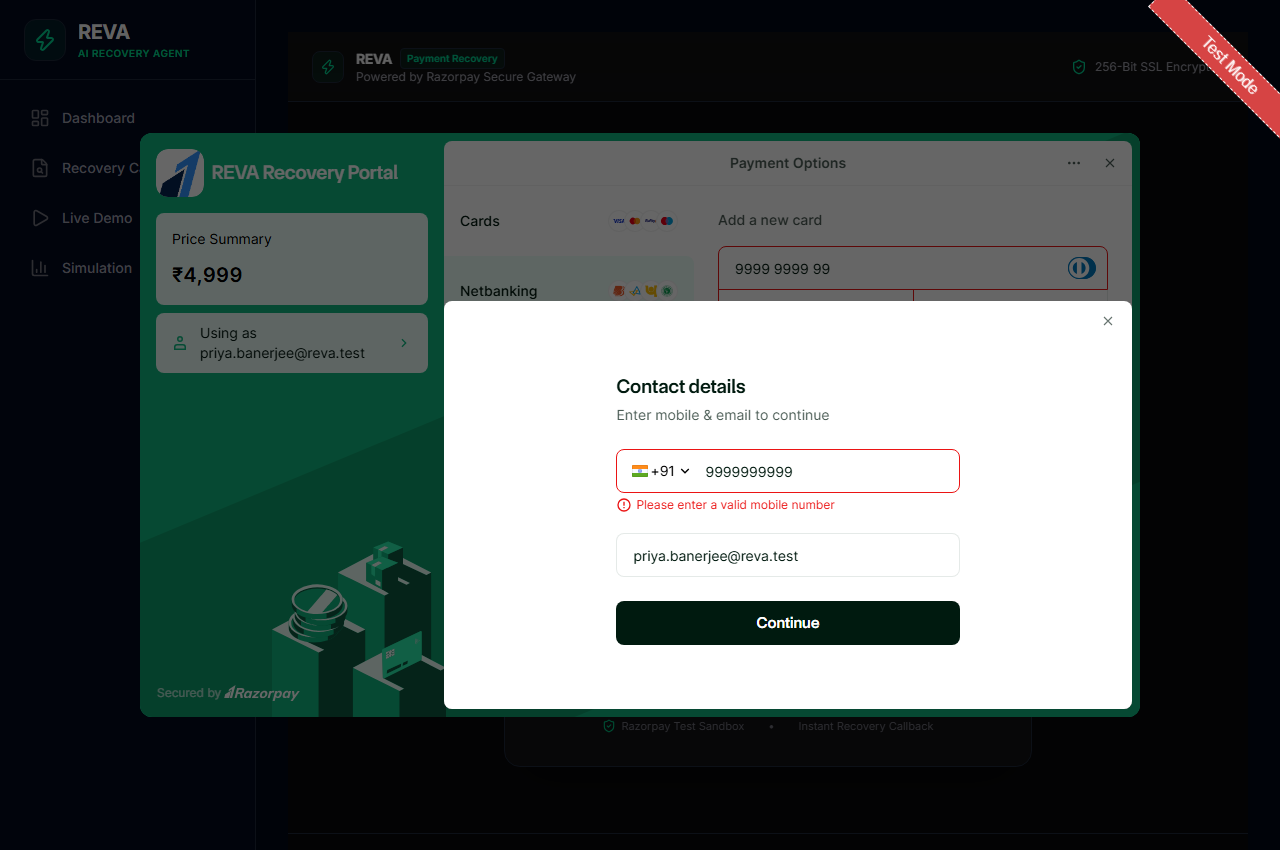
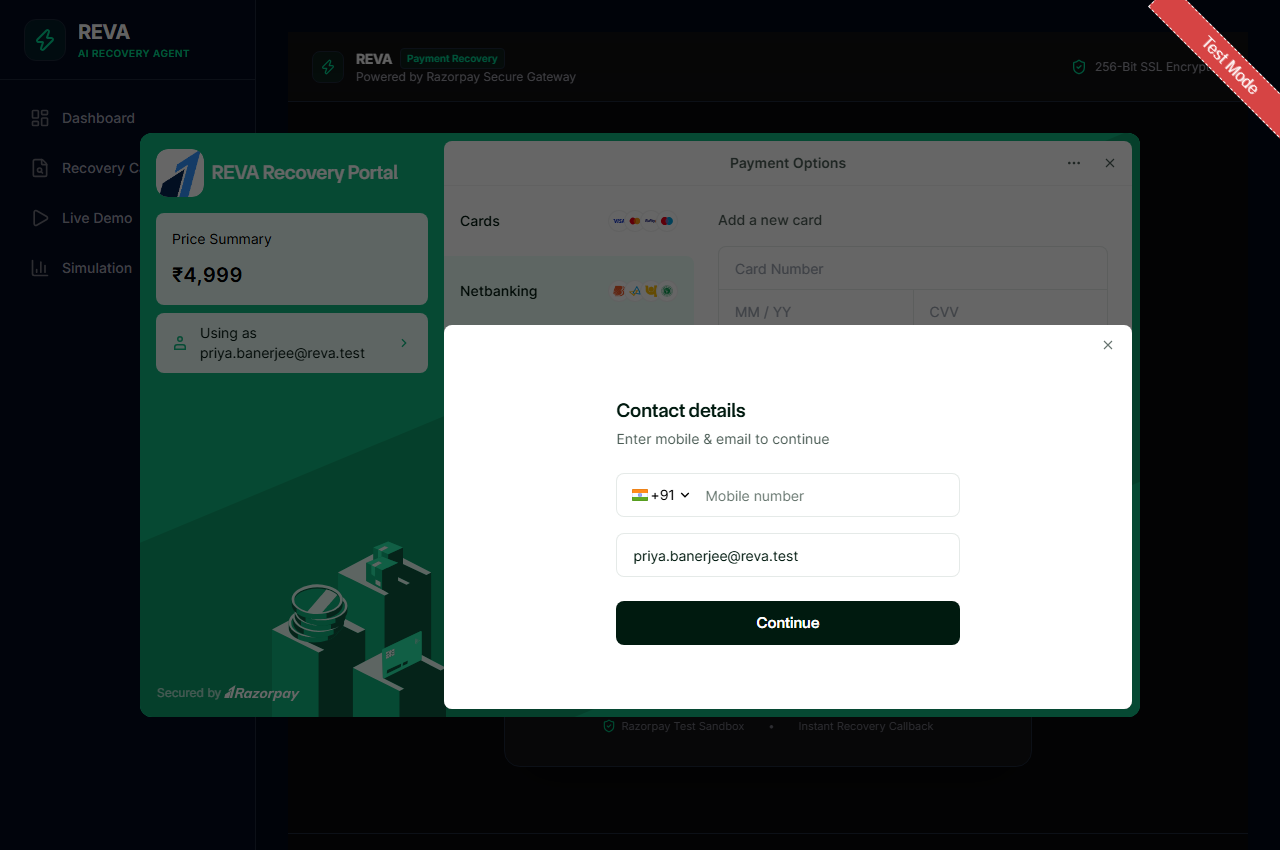
docs: update Razorpay test mode screenshot to initial contact details state

Changed region(s): [[0.3438, 0.3059, 0.9062, 0.3976], [0.4688, 0.4282, 0.6562, 0.6118]]

diff --git a/README.md b/README.md
@@ -85,7 +85,7 @@ Dynamic payment recovery links generated by REVA direct customers to the integra
 
 ### Razorpay Test Mode Payment Options
 ![Razorpay Test Mode Payment Options](docs/screenshots/razorpay-test-mode-options.png)
-When a customer clicks to complete payment, the official Razorpay Standard Checkout SDK launches in sandbox test mode, displaying price summary (₹4,999), prefilled contact details, available payment options (Cards, Netbanking, UPI), and the red Test Mode indicator.
+When a customer clicks to complete payment, the official Razorpay Standard Checkout SDK launches in sandbox test mode, displaying the initial contact details prompt, price summary (₹4,999), available payment options (Cards, Netbanking, UPI), and the red Test Mode indicator.
 
 ---
 
